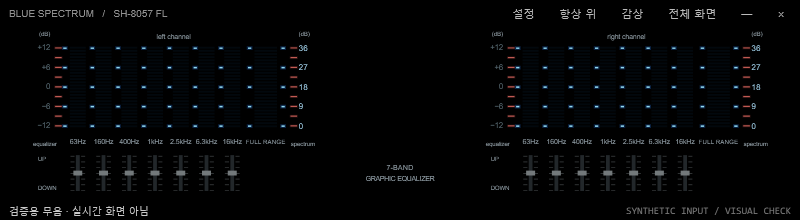
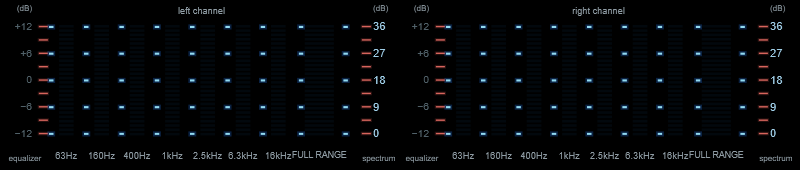
Tighten SH-8057 spectrum proportions and remove sliders

diff --git a/src/UI/SpectrumSurface.cs b/src/UI/SpectrumSurface.cs
@@ -11,7 +11,7 @@ namespace BlueSpectrum.UI;
 public sealed class SpectrumSurface : Grid
 {
     private const int Steps = 26;
-    private const double PanelWidth = 354, PanelHeight = 208, PanelGap = 200, PlotTop = 19, PlotHeight = 100;
+    private const double PanelWidth = 354, PanelHeight = 148, PanelGap = 0, PlotTop = 19, PlotHeight = 100;
     private const double SegmentHeight = 2.25;
     private static readonly string[] Frequencies = ["63Hz", "160Hz", "400Hz", "1kHz", "2.5kHz", "6.3kHz", "16kHz", "FULL RANGE"];
     private readonly double[][] levels = [new double[8], new double[8]];
@@ -24,7 +24,6 @@ public sealed class SpectrumSurface : Grid
     private Brush lit = Brushes.LightBlue, hotCore = Brushes.White, halo = Brushes.Blue, outerHalo = Brushes.Blue;
     private static readonly Brush Inactive = Brush("#02080D"), MarkerHalo = ColorBrush(70, 35, 125, 245), MarkerCore = ColorBrush(238, 155, 232, 255), Printed = Brush("#909DA5"), Dormant = Brush("#52636B"), ScaleInk = Brush("#A0CFE8");
     private static readonly Brush RedCore = Brush("#D7645C"), RedHalo = Brush("#28100F");
-    private static readonly Brush SliderRail = Brush("#22272A"), SliderTick = Brush("#4B5052"), SliderKnob = Brush("#73797B");
     private double lastBrightness = -1, lastGlow = -1;
     private GpuSpectrumHost? gpuHost;
     private byte[]? backgroundPixels;
@@ -104,7 +103,6 @@ public sealed class SpectrumSurface : Grid
             Text(dc, channel == 0 ? "left channel" : "right channel", 177, 3, 8.2, Printed, center: true);
             dc.Pop(); dc.Pop();
         }
-        DrawCenterCaption(dc, x, y, scale);
     }
 
     internal void ApplyGpuSelection()
@@ -182,7 +180,6 @@ public sealed class SpectrumSurface : Grid
                     Text(dc, channel == 0 ? "left channel" : "right channel", 177, 3, 8.2, Printed, center: true);
                     dc.Pop(); dc.Pop();
                 }
-                DrawCenterCaption(dc, x, y, scale);
                 dc.Pop();
             }
             var bitmap = new RenderTargetBitmap(width, height, 96, 96, PixelFormats.Pbgra32);
@@ -270,7 +267,7 @@ public sealed class SpectrumSurface : Grid
                 }
             }
             // SH-8057 has five always-visible reference dots in vertical columns between the eight bars.
-            double[] markers = [42, 75.5, 107, 138.5, 170, 201.5, 233, 268, 309];
+            double[] markers = [41, 72.25, 103.75, 135.25, 166.75, 198.25, 229.75, 263.75, 303.5];
             foreach (double mx in markers)
             for (int i = 0; i < 5; i++)
             {
@@ -282,34 +279,12 @@ public sealed class SpectrumSurface : Grid
             Text(dc, "(dB)", 330, 1, 7.2, Printed);
             Text(dc, "equalizer", 5, 135, 7.2, Printed);
             Text(dc, "spectrum", 350, 135, 7.2, Printed, right: true);
-            for (int band = 0; band < 7; band++)
-            {
-                double cx = BandX(band) + BandWidth(band) / 2;
-                dc.DrawRectangle(SliderRail, null, new Rect(cx - 2.3, 153, 4.6, 44));
-                for (int tick = 0; tick < 7; tick++)
-                {
-                    double ty = 154 + tick * 7;
-                    dc.DrawRectangle(SliderTick, null, new Rect(cx - 9, ty, 5, .7));
-                    dc.DrawRectangle(SliderTick, null, new Rect(cx + 4, ty, 5, .7));
-                }
-                dc.DrawRectangle(SliderKnob, null, new Rect(cx - 5.5, 172, 11, 6));
-            }
-            Text(dc, "UP", 11, 154, 7.2, Printed);
-            Text(dc, "DOWN", 11, 189, 7.2, Printed);
         }
         face.Freeze();
     }
-    private static double BandX(int band) => band == 7 ? 276 : 50 + band * 31.5;
-    private static double BandWidth(int band) => band == 7 ? 27.5 : 19.5;
+    private static double BandX(int band) => band == 7 ? 269 : 50 + band * 31.5;
+    private static double BandWidth(int band) => band == 7 ? 26 : 13;
     private static double RowY(int row) => PlotTop + PlotHeight - (row + 1) * (PlotHeight / Steps) + 1.5;
-    private void DrawCenterCaption(DrawingContext dc, double x, double y, double scale)
-    {
-        dc.PushTransform(new TranslateTransform(x + (PanelWidth + PanelGap / 2) * scale, y));
-        dc.PushTransform(new ScaleTransform(scale, scale));
-        Text(dc, "7-BAND", 0, 163, 9, Printed, center: true);
-        Text(dc, "GRAPHIC EQUALIZER", 0, 177, 8, Printed, center: true);
-        dc.Pop(); dc.Pop();
-    }
     private void Text(DrawingContext dc, string text, double x, double y, double size, Brush brush, bool right = false, bool center = false)
     {
         string key = text + ":" + size.ToString("F2", CultureInfo.InvariantCulture) + ":" + brush;

diff --git a/src/Diagnostics.cs b/src/Diagnostics.cs
@@ -159,7 +159,7 @@ internal static class Diagnostics
                 var surface = window.Surface; var db = Enumerable.Repeat(-12.0, 7).ToArray();
                 for (int i = 0; i < 100; i++) surface.Update(db, db, 1 / 60.0, true);
                 for (int i = 0; i < 240; i++) surface.Update(db, db, 1 / 60.0, false);
-                window.Width = 720; window.Height = 210; window.UpdateLayout();
+                window.Width = 720; window.Height = 160; window.UpdateLayout();
                 Write(output, new { Passed = true, PositionChecks = positionChecks, MainBorderSuppressionAccepted = mainBorderSuppressed, OptionsBorderSuppressionAccepted = optionsBorderSuppressed, Checks = new[] { "WPF HWND initialization", "Focus mode active before first show and after Loaded", "Escape key routed event restores menu and footer", "Focus mode round trip", "Fullscreen round trip", "Five actual position button events and physical work-area bounds", "Position buttons preserve size and update saved position model", "Position button exits fullscreen", "Black context menu opens", "Black device dropdown opens and selects an item", "Invisible settings dialog with actual Apply event", "Settings gain value updated", "Live-to-silence render update", "Resize to minimum" }, Scope = "In-process WPF UI integration. Test windows and popups transparent and not activated. Native border fields report DWM setter acceptance. Physical keyboard/mouse/DPI-change not exercised." });
             }
             catch (Exception e) { Write(output, new { Passed = false, Error = e.ToString() }); }
@@ -308,7 +308,6 @@ internal static class Diagnostics
     {
         var app = new Application(); Program.ApplyTheme(app);
         var window = new MainWindow(false, new AppSettings { Width = width, Height = height });
-        window.RestoreView(); // Keep the synthetic-input caption visible in diagnostic previews.
         window.SetDiagnosticCaption(silent ? "검증용 무음 · 실시간 화면 아님" : "검증용 합성 입력 · 실시간 화면 아님");
         // Deterministic multi-tone fixtures pass through the real analyzer, never live mode.
         if (!silent)

diff --git a/src/UI/OptionsWindow.cs b/src/UI/OptionsWindow.cs
@@ -97,7 +97,7 @@ internal sealed class OptionsWindow : Window
         var top = new CheckBox { Content = "항상 다른 창 위에 표시", IsChecked = settings.AlwaysOnTop };
         var eco = new CheckBox { Content = "절전 모드 · 목표 30 FPS (기본 목표 60 FPS)", IsChecked = settings.Fps == 30 };
         body.Children.Add(peak); body.Children.Add(top); body.Children.Add(eco);
-        body.Children.Add(new TextBlock { Text = "표시 감도는 실제 소리 크기를 바꾸지 않습니다.\n7개 주파수 + FULL RANGE · 촘촘한 청색 발광선 막대.\n오른쪽 0~36은 상대 표시 레벨이며 원기기의 전압 기준과 다릅니다.\n하단 7밴드 슬라이더와 왼쪽 ±12 눈금은 외형 재현용이며 소리를 조절하지 않습니다.\n모노는 양쪽에 동일하게, 다채널은 전면 좌우만 표시합니다.\nF11 전체 화면 · Ctrl+M 감상 모드 · Esc 복귀\nSH-8057의 두 표시창과 좌우 슬라이더 외형을 참고했습니다.", Foreground = new SolidColorBrush(Color.FromRgb(150, 150, 150)), FontSize = 11, TextWrapping = TextWrapping.Wrap, Margin = new Thickness(0, 15, 0, 0), LineHeight = 19 });
+        body.Children.Add(new TextBlock { Text = "표시 감도는 실제 소리 크기를 바꾸지 않습니다.\n7개 주파수 + FULL RANGE · 촘촘한 청색 발광선 막대.\n오른쪽 0~36은 상대 표시 레벨이며 원기기의 전압 기준과 다릅니다.\n왼쪽 ±12 눈금은 외형 재현용이며 소리를 조절하지 않습니다.\n모노는 양쪽에 동일하게, 다채널은 전면 좌우만 표시합니다.\nF11 전체 화면 · Ctrl+M 감상 모드 · Esc 복귀\nSH-8057의 좌우 표시창을 참고했습니다.", Foreground = new SolidColorBrush(Color.FromRgb(150, 150, 150)), FontSize = 11, TextWrapping = TextWrapping.Wrap, Margin = new Thickness(0, 15, 0, 0), LineHeight = 19 });
         save.Click += (_, _) =>
         {
             settings.DeviceId = devices.SelectedValue as string; if (string.IsNullOrEmpty(settings.DeviceId)) settings.DeviceId = null;

diff --git a/src/AppSettings.cs b/src/AppSettings.cs
@@ -17,7 +17,7 @@ public sealed class AppSettings
     public string? DeviceId { get; set; }
     public string? RenderGpuId { get; set; }
     public double Width { get; set; } = 800;
-    public double Height { get; set; } = 220;
+    public double Height { get; set; } = 170;
     public double Left { get; set; } = double.NaN;
     public double Top { get; set; } = double.NaN;
 
@@ -41,17 +41,22 @@ public sealed class AppSettings
                 if (s.Height == 170) s.Height = 220;
                 s.DisplayProfileVersion = 3;
             }
+            if (s.DisplayProfileVersion < 4)
+            {
+                if (s.Height == 220) s.Height = 170;
+                s.DisplayProfileVersion = 4;
+            }
             s.Validate(); return s;
         }
         catch { return new(); }
     }
     public void Validate()
     {
-        DisplayProfileVersion = 3;
+        DisplayProfileVersion = 4;
         GainDb = Clamp(GainDb, -24, 30, 6); Brightness = Clamp(Brightness, .15, 1, .85);
         Glow = Clamp(Glow, 0, 1, .6); AttackMs = Clamp(AttackMs, 10, 150, 20);
         ReleaseMs = Clamp(ReleaseMs, 80, 900, 180);
-        Width = Clamp(Width, 720, 3000, 800); Height = Clamp(Height, 210, 1800, 220);
+        Width = Clamp(Width, 720, 3000, 800); Height = Clamp(Height, 160, 1800, 170);
         if (Fps != 30) Fps = 60;
         if (string.IsNullOrWhiteSpace(RenderGpuId)) RenderGpuId = null;
     }

diff --git a/src/UI/MainWindow.cs b/src/UI/MainWindow.cs
@@ -33,7 +33,7 @@ public sealed class MainWindow : Window
     {
         settings = initialSettings ?? AppSettings.Load(); settings.Validate(); persistSettings = startAudio;
         Title = "Blue Spectrum · SH-8057 FL";
-        Width = settings.Width; Height = settings.Height; MinWidth = 720; MinHeight = 210;
+        Width = settings.Width; Height = settings.Height; MinWidth = 720; MinHeight = 160;
         WindowStyle = WindowStyle.None; ResizeMode = ResizeMode.CanResize;
         WindowChrome.SetWindowChrome(this, new WindowChrome { CaptionHeight = 0, ResizeBorderThickness = new Thickness(6), GlassFrameThickness = new Thickness(0), CornerRadius = new CornerRadius(0), UseAeroCaptionButtons = false });
         BlackWindowFrame.Attach(this);

diff --git a/docs/검증결과.md b/docs/검증결과.md
@@ -4,7 +4,7 @@
 
 사용자가 제공한 사진과 [SH-8057 전면 사진](https://i.ebayimg.com/images/g/i4oAAeSwQOlp3GeG/s-l1200.webp)을 대조해 모티브 모델을 SH-E70에서 SH-8057로 바로잡았습니다. 서로 다른 판매자의 점등·소등 사진에 대한 교차 검증은 [표시창 사진 대조](SH-8057-표시창-사진대조.md)에 기록했습니다. [SH-8065 서비스 매뉴얼](https://www.manualslib.com/manual/4075001/Technics-Sh-8065.html)은 그 모델이 좌우 33밴드 이퀄라이저임을 보여 주므로, 이 사진의 두 청색 표시창과 일치하지 않습니다. 사용자가 준 [짧은 영상](https://www.instagram.com/reel/DcFNXSrOC9i/)에서는 같은 전면 배치를 확인했지만 막대의 정확한 상승·하강 시간을 계측할 수는 없었습니다.
 
-두 그래프 사이 간격을 넓히고 원본 사진의 청백색 발광 중심과 얇은 청색 번짐을 참고해 막대를 4층(바깥 빛, 안쪽 빛, 청색 몸체, 밝은 중심)으로 그립니다. 사용자 제공 사진과 앱 미리보기를 직접 대조한 뒤, 지나치게 희게 보이던 중심을 더 푸른색으로 조정했습니다. 추가된 고해상도 사진을 확대 대조해 이전에 막대 안에 잘못 넣었던 점을 제거하고, 막대 사이와 양끝의 독립된 다섯 점 세로 열로 수정했습니다. 막대 자체도 넓은 13개 블록에서 사진의 촘촘한 발광선 약 26개로 다시 그렸습니다. WPF와 GPU 출력에 같은 색과 사각형 배치를 적용했습니다. 좌우 그래프 아래에 각 7개의 슬라이더 외형을 추가했습니다. 새 설치의 기본 반응은 상승 20ms, 하강 180ms이며, 이전 기본값을 쓰던 설정만 이 값으로 이전합니다. 다른 개인 설정은 보존하고 이전 기본 창 높이만 220으로 이전합니다. 좌우 독립 분석은 유지합니다. 슬라이더는 외형 재현용이며 소리를 변경하지 않습니다. 중앙 메모리와 우측 조작부는 표시하지 않습니다. 원기기의 필터·레벨·시간 응답을 실측 복제한 것은 아닙니다.
+원본 사진의 청백색 발광 중심과 얇은 청색 번짐을 참고해 막대를 4층(바깥 빛, 안쪽 빛, 청색 몸체, 밝은 중심)으로 그립니다. 사용자 제공 고해상도 사진을 대조해 막대 사이와 양끝의 독립된 다섯 점 세로 열 및 약 26개의 촘촘한 발광선을 재구성했습니다. 일반 막대의 폭을 중심 간격의 약 41%로 줄이고 `full range` 폭을 일반 막대의 두 배로 맞췄습니다. 사용자 요청에 따라 하단 장식 슬라이더와 중앙 여백을 없애고 기본 창 높이를 170으로 줄였습니다. 새 설치의 기본 반응은 상승 20ms, 하강 180ms이며, 이전 기본값을 쓰던 설정만 이 값으로 이전합니다. 다른 개인 설정과 저장된 창 위치는 보존합니다. 좌우 독립 분석은 유지합니다. 중앙 메모리와 우측 조작부는 표시하지 않습니다. 원기기의 필터·레벨·시간 응답을 실측 복제한 것은 아닙니다.
 
 합성 입력 미리보기는 `assets/preview-v1.8.png`, 무음 기준점 미리보기는 `assets/preview-v1.8-silence.png`입니다. Release 빌드 및 단일 EXE 배포를 완료했습니다. 합성 DSP, WPF UI, GPU 렌더 검사는 개발 실행 파일과 배포 EXE 모두 `Passed: true`입니다. 두 GPU(RTX 3070, AMD Radeon Graphics)의 선택·출력·크기 변경을 검사했고 왼쪽 신호 입력에서 좌우 픽셀 출력 차이를 확인했습니다. 결과는 `artifacts/*-v1.8.json`에 기록했습니다. 실제 SH-8057의 움직임이나 PC별 FPS·부하는 계측하지 않았습니다.
 

diff --git a/docs/SH-8057-표시창-사진대조.md b/docs/SH-8057-표시창-사진대조.md
@@ -9,5 +9,8 @@
 | 막대 사이와 양끝에 밝은 기준점이 별도의 세로 열을 이루며 각 열에 다섯 점이 있음 | 막대 8열과 독립된 기준점 9열 × 5점. 소리가 없을 때도 표시 |
 | 각 표시창 위에 `left channel`·`right channel`, 아래에 주파수 및 `equalizer`·`spectrum` 표기 | 해당 문구와 좌우 눈금 배치 수정 |
 | 왼쪽 EQ 눈금은 ±12, 오른쪽 스펙트럼 눈금은 0~36 | 서로 다른 두 눈금을 유지 |
+| 일반 막대 폭은 인접 막대 중심 간격의 약 40%, `full range` 막대는 일반 막대의 약 두 배 | 막대 폭·마지막 막대 중심·기준점 위치를 사진 비율에 맞게 조정 |
+
+사용자 제공 좌측 고해상도 점등 사진에서 일반 막대 중심 간격은 약 100픽셀, 막대 본체 폭은 약 40픽셀이었다. `full range` 본체는 약 80픽셀이고 16kHz 막대보다 약 115픽셀 떨어져 있었다. 촬영 각도와 발광 번짐이 있어 치수는 근사치다. 프로그램은 이에 맞춰 일반 막대 폭/중심 간격을 약 0.41, 마지막 막대 폭/일반 막대 폭을 2.0으로 조정했다. 아래 조절 바와 중앙 빈 구간은 사용자 요청에 따라 표시하지 않는다.
 
 추가 제공된 고해상도 점등 사진의 2.5kHz 막대 중심에서는 밝은 선의 세로 간격이 대략 7픽셀이며, 표시창 전체 높이에 약 26개가 들어간다. 사진의 압축·광학 번짐 때문에 이는 시각적 추정이고 제조사 세그먼트 수의 확정값은 아니다. 점등 사진마다 노출, 화이트밸런스, 화면 모드, 입력 소리가 달라 색과 각 막대 높이가 크게 달라진다. 따라서 색과 밝기는 여러 사진의 공통 인상을 따른 시각적 근사치다. 정지 사진만으로 원기기의 정확한 응답 시간, 색좌표 또는 휘도를 계측할 수 없다. 판매 설명의 `LED` 표기는 원기기 표시 방식에 대한 검증 자료로 쓰지 않았다. [Craigslist 광고의 그래픽 컷](https://images.craigslist.org/01313_6qGt2bWCLOu_0CI0t2_600x450.jpg)은 합성 홍보 이미지처럼 보여 물리적 형태 비교에서 제외했다.
